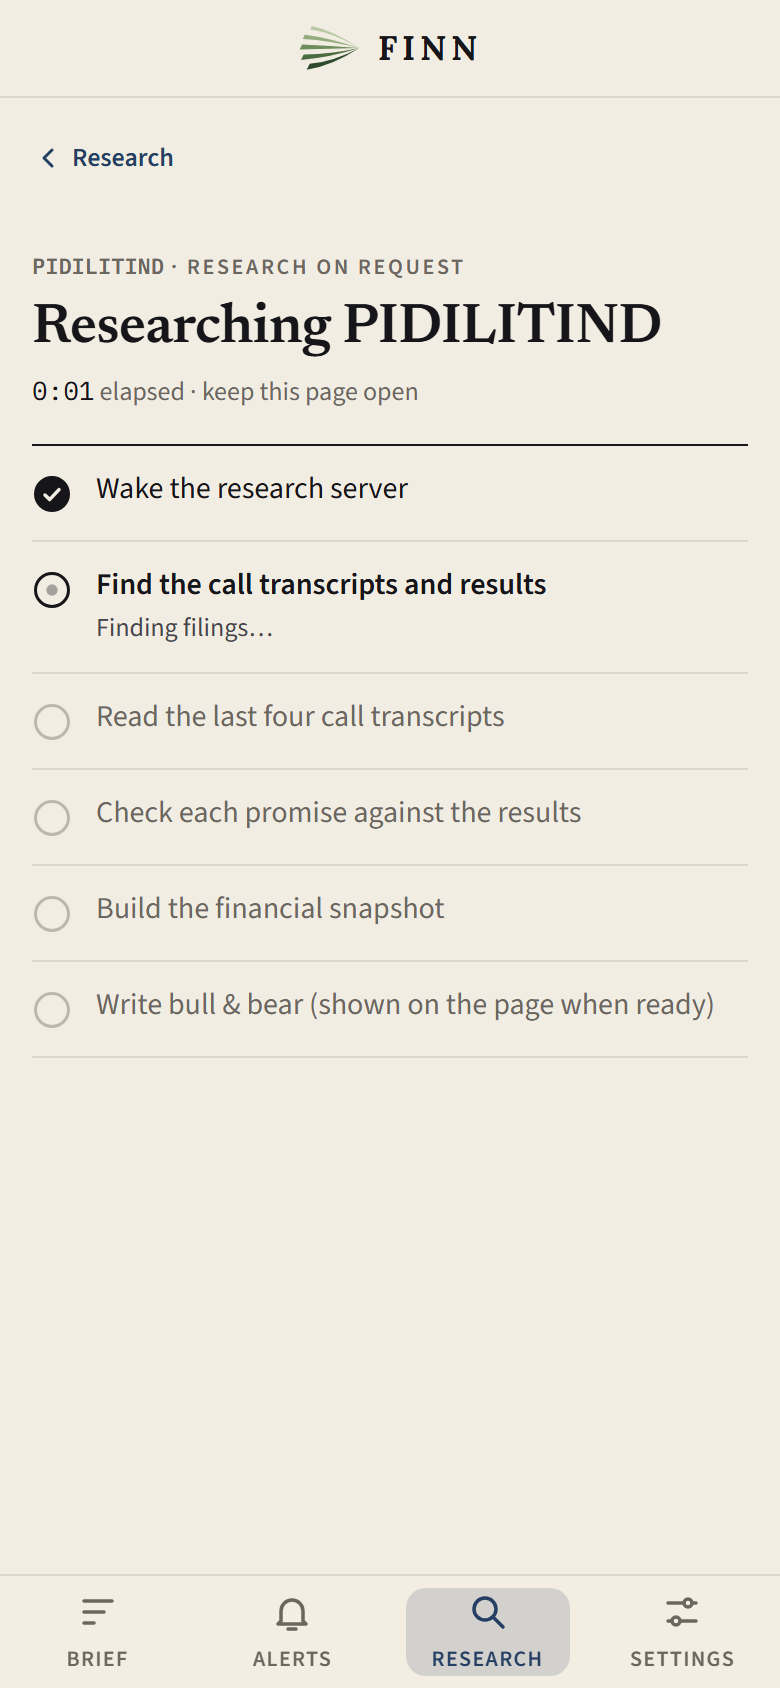
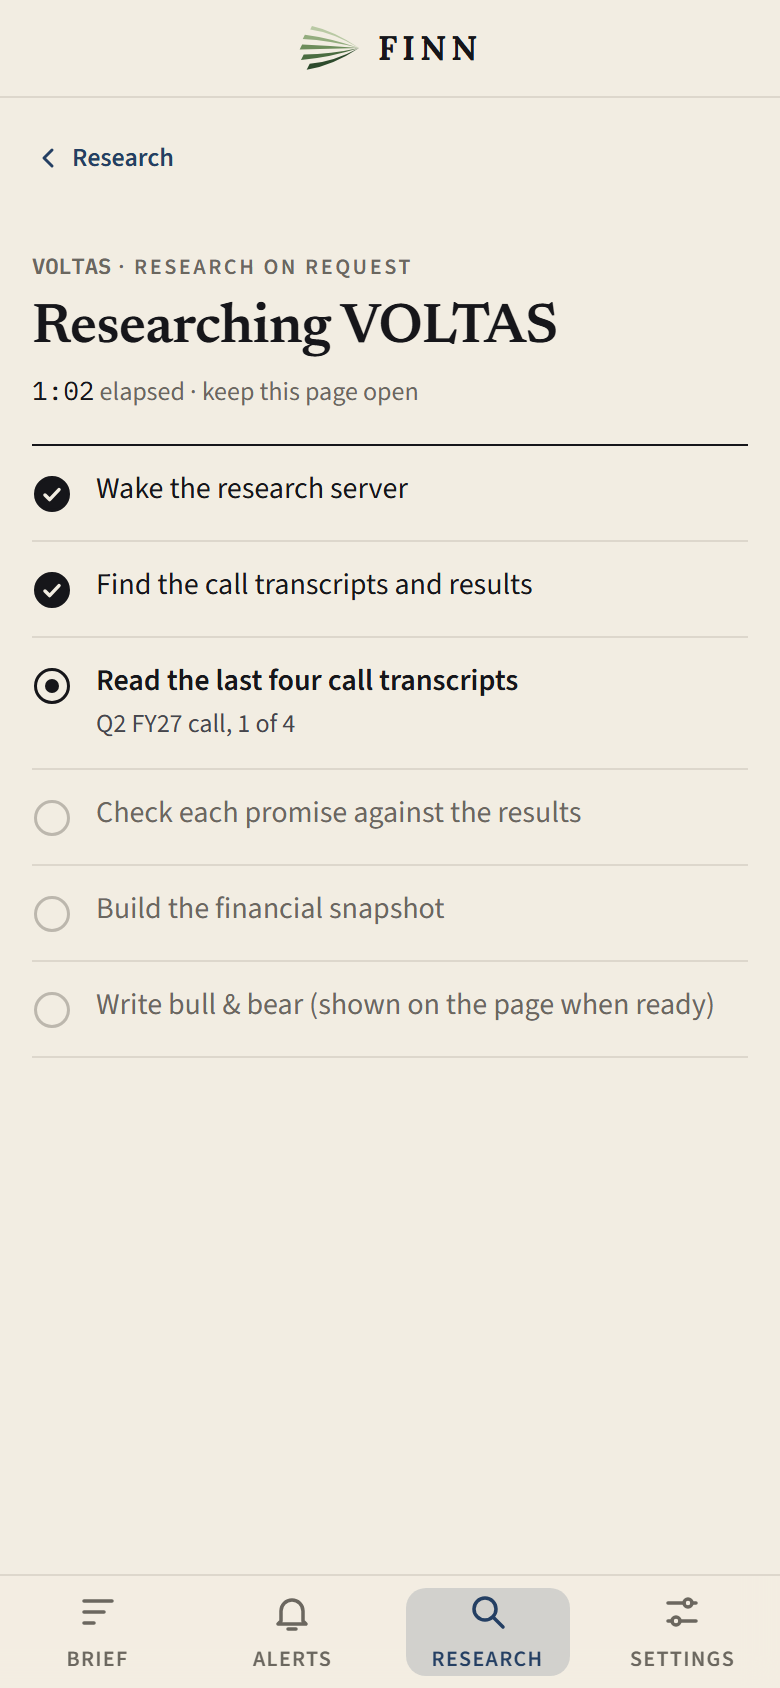
README: thesis, Try it in 60 seconds, AI build history link, four new screenshots of the live app (Brief this month, expanded results card, L&T Promised vs Delivered, live research), the removed letter grade and the ITC column catch

diff --git a/README.md b/README.md
@@ -2,7 +2,23 @@
 
 [![CI](https://github.com/Moksha4444/finn/actions/workflows/ci.yml/badge.svg)](https://github.com/Moksha4444/finn/actions/workflows/ci.yml)
 
+> Investors aren't short of information, they're short of filtering. FINN hides the routine, ranks what the market
+> reacted to, and asks whether management delivered what it promised.
+
 **Live:** https://finn-coral-eta.vercel.app (mobile-first; on a desktop it shows a QR code for your phone)
+
+**AI build history: [build-history/](build-history/)**: every Claude Code session that built FINN, in order
+([index](build-history/sessions/INDEX.md)).
+
+### Try it in 60 seconds
+
+1. **Brief → This month.** Results season across the 20 holdings, ranked by what the market reacted to. Tap a story for
+   the full results card (QoQ / YoY, one-offs flagged).
+2. **Research → Larsen & Toubro.** FY26 revenue growth guidance was 15% ("we maintain our full year revenue growth
+   guidance at 15%", Q2 FY26 call, p.10); delivered 11.8%: **missed**, with the quote and the page.
+3. **Research → search HAVELLS** (or any NSE symbol not in the list) for a live run: the backend's stages tick off as a
+   checklist, about 1–2 minutes.
+4. **Settings → change a threshold** (say, move vs Nifty from ±3% to ±1.5%), then go back to the Brief and watch it re-rank.
 
 FINN reads every exchange filing across a portfolio, hides the routine ones, and puts the few that matter at the top with
 the numbers already worked out. For any NSE company it also checks whether management delivered what it promised on
@@ -10,11 +26,11 @@ its last four earnings calls. Every figure links to the filing or transcript pag
 
 Built for the ENAM Holdings AI Engineer build challenge (11–15 Nov 2026).
 
-Screenshots of the live app at 390×844, taken on 15 Nov 2026:
+Screenshots of the live app (390×844, animations off), taken on 15 Nov 2026:
 
-| Brief (this week's edition) | L&T research | Promised vs Delivered | Live research in progress |
+| Brief: this month | Results card, expanded | Promised vs Delivered (L&T) | Live research in progress |
 |---|---|---|---|
-| ![The Brief: masthead, market strip, the week's verdict and the lead story](docs/screenshots/brief.png) | ![Larsen & Toubro: 90 days vs Nifty and the start of Promised vs Delivered](docs/screenshots/research-lt.png) | ![L&T's promises: a missed revenue-growth target and a hit on working capital, each with quote, citation and chart](docs/screenshots/research-lt-pvd.png) | ![Researching PIDILITIND: the backend's stages as a checklist](docs/screenshots/live-research.png) |
+| ![The Brief, this month's edition: masthead, market strip, the results-season verdict, the lead story and the next one](docs/screenshots/brief-month.png) | ![Tata Power's results card opened: revenue, EBITDA, PBT and PAT with QoQ and YoY, and the one-off gain flagged](docs/screenshots/results-card.png) | ![Larsen & Toubro's promises: FY26 revenue growth guidance of 15% missed at 11.8%, with quote, page and chart](docs/screenshots/promised-vs-delivered.png) | ![A live research run: the backend's stages as a checklist, ticking off](docs/screenshots/live-research.png) |
 
 ## What it does
 
@@ -72,7 +88,7 @@ python -m finn.pull.research (batch, by hand)          Render (FastAPI, free tie
   mirror the exchange filings and are cited as such). Prompts forbid outside knowledge; a missing fact is "not disclosed".
 - **Nothing is hard-coded to a ticker.** NSE symbol → BSE scrip code / screener slug is resolved at run time.
 - **A consistency gate** (`python -m finn.consistency`, also a test) checks that one fact has one number across the
-  feed and every research page; the research batch fails if it doesn't.
+  feed and every research page; the research batch fails if it doesn't. It caught ITC printing its year-ago column second, which had turned a −18.7% PAT change into −5.1%.
 
 Code map: `backend/finn/` (`llm.py` router, `sources/` BSE/NSE/screener/prices/PDF, `push/` classify/cards/rank,
 `pull/` PvD/segments/bank ratios/research, `api.py`, `ingest.py`), `web/` (Next.js app), `backend/tests/` (fixtures are
@@ -136,6 +152,8 @@ Full log with the evidence for each: [DECISIONS.md](DECISIONS.md). The ones that
 - **PvD verdicts are computed, not judged,** wherever a number exists. Segment targets are measured on the filing's
   segment table, bank CD ratios on the balance sheet, and no target is called hit or missed before its period ends.
   On the first 22-company run 62% of promises were "not measurable"; now it's 36 of 72, and each one says why.
+- **No letter grades.** An A–D grade for management was built and then removed: a letter from two measured promises is
+  false precision. FINN prints the counts ("KEPT 1 · MISSED 1 · OPEN 1") and shows no record under 2 measured promises.
 - **A thin, true section beats a full, generic one.** Bull/bear points that fail the checks are dropped, not padded.
 - **No paid APIs, no database.** Free Gemini + Groq tiers with fallbacks; JSON files plus disk caches instead of
   SQLite/Supabase.
